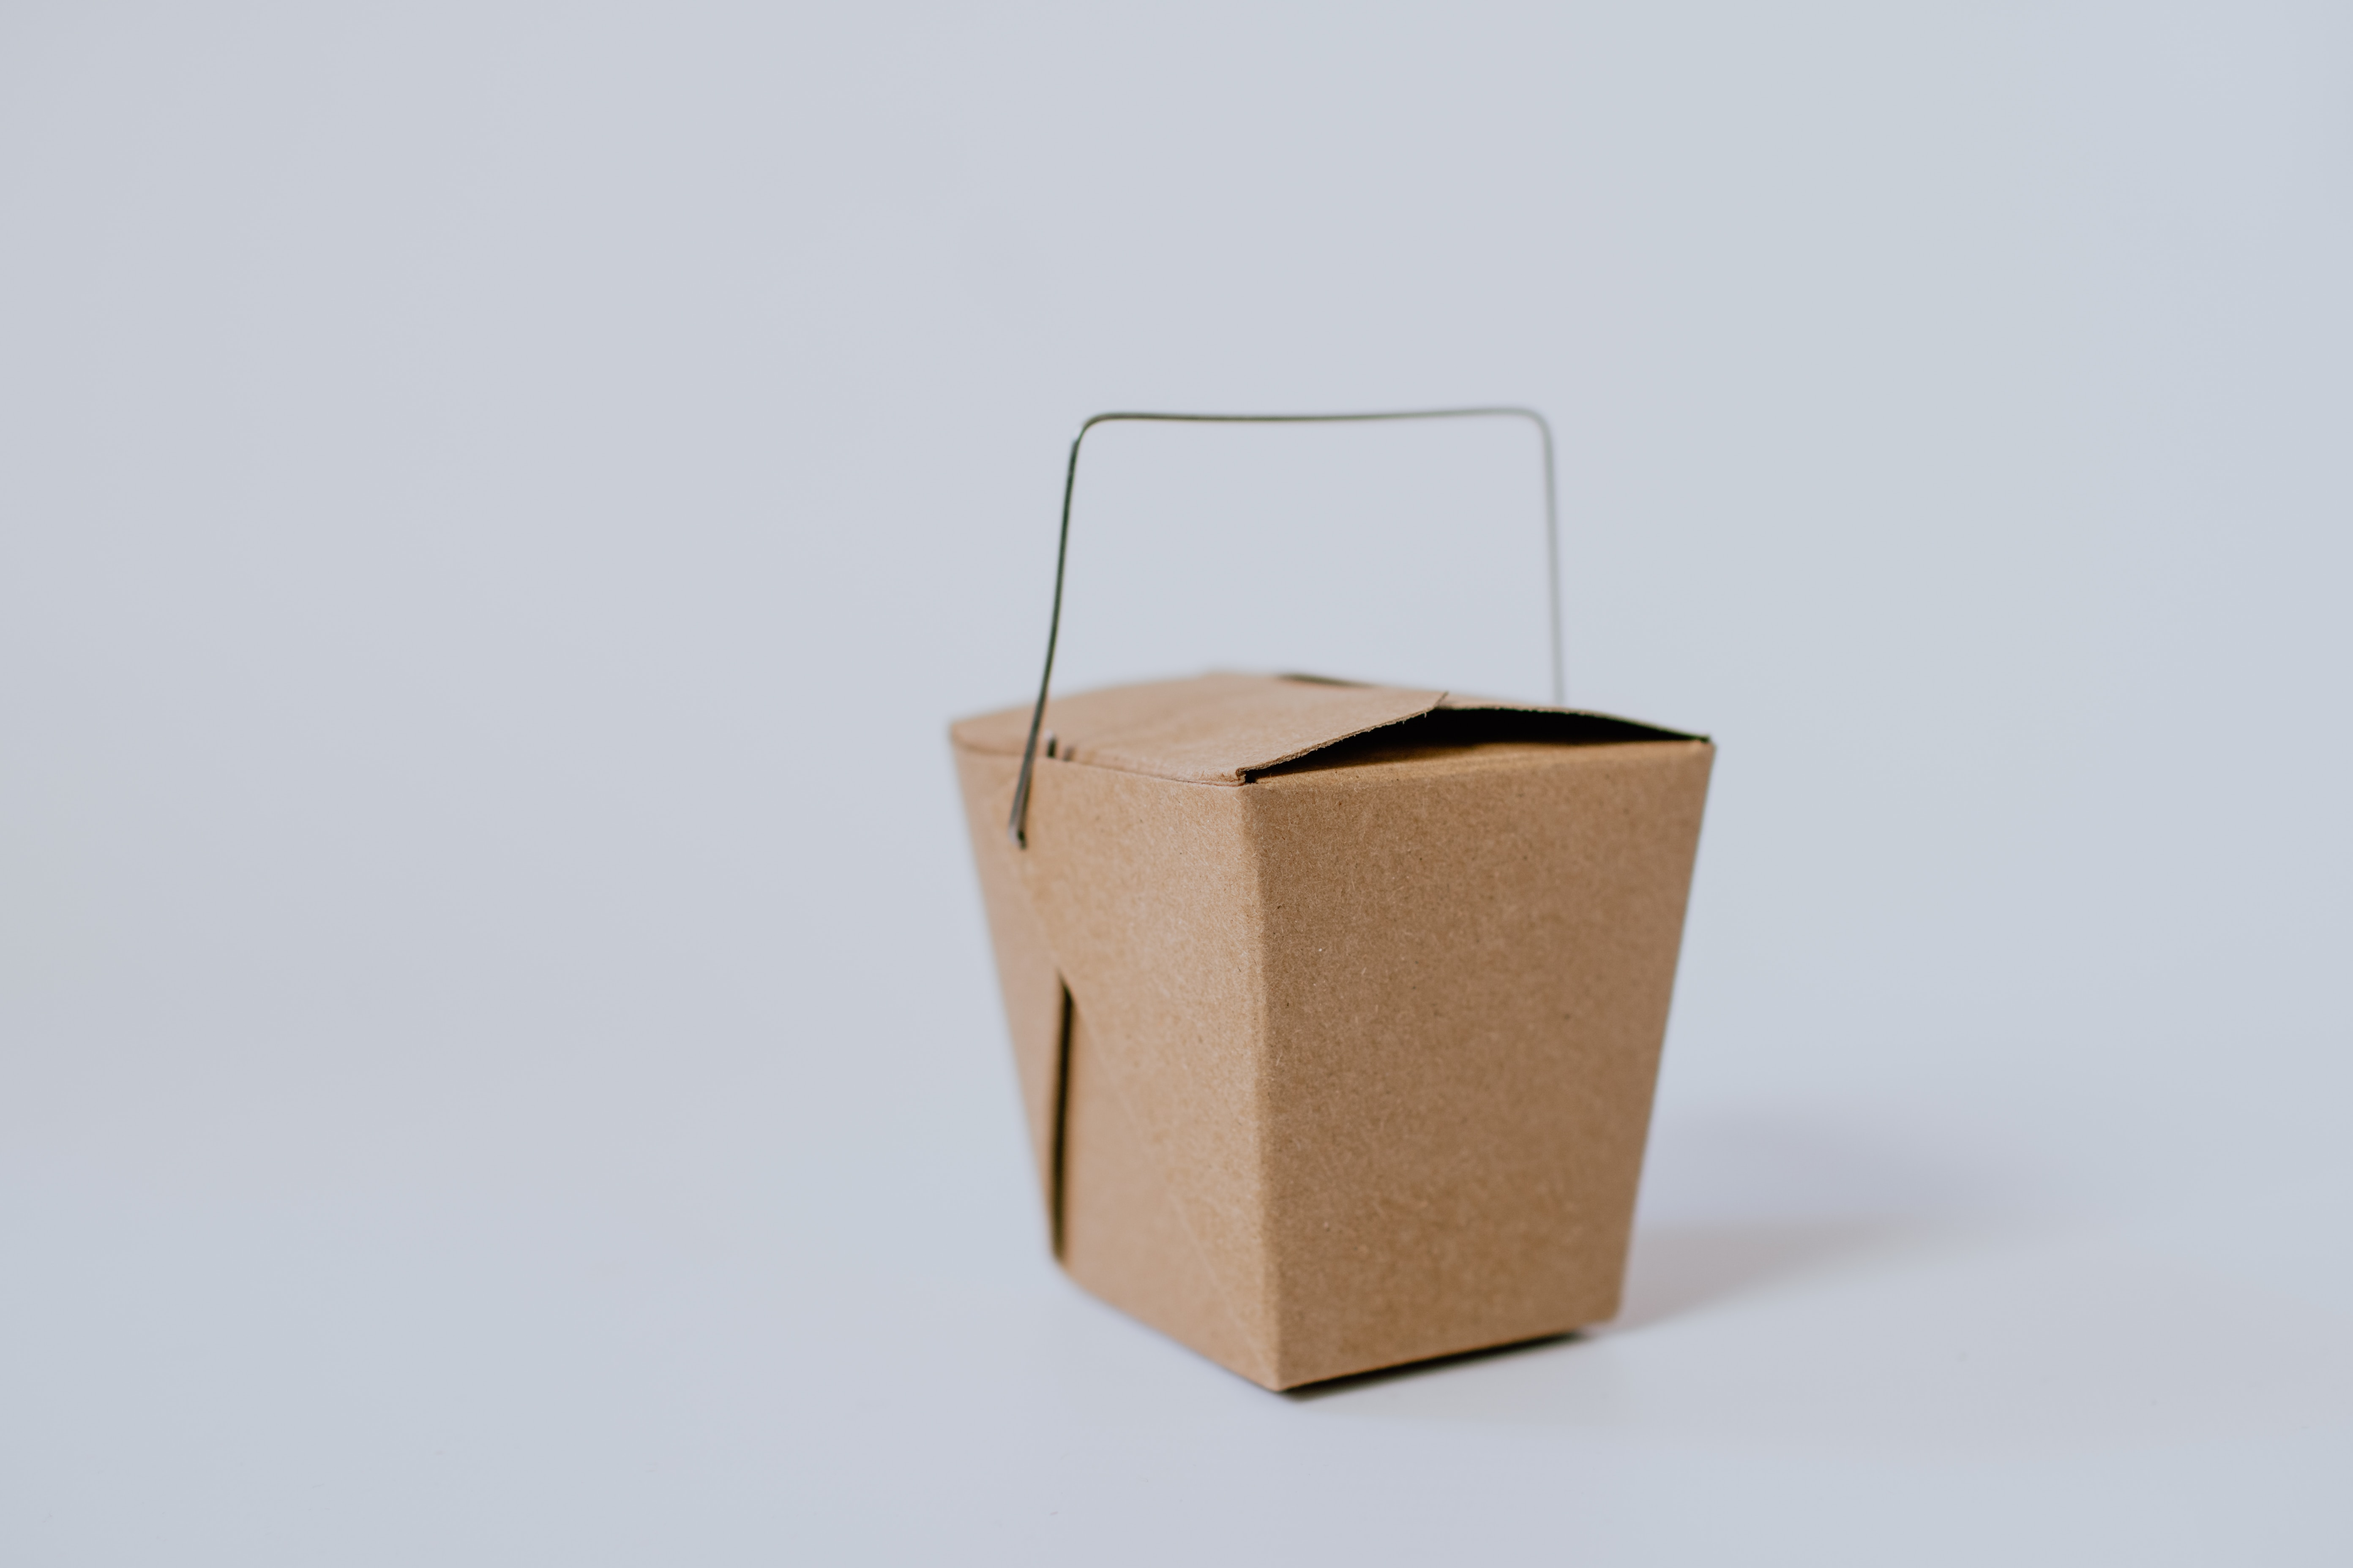
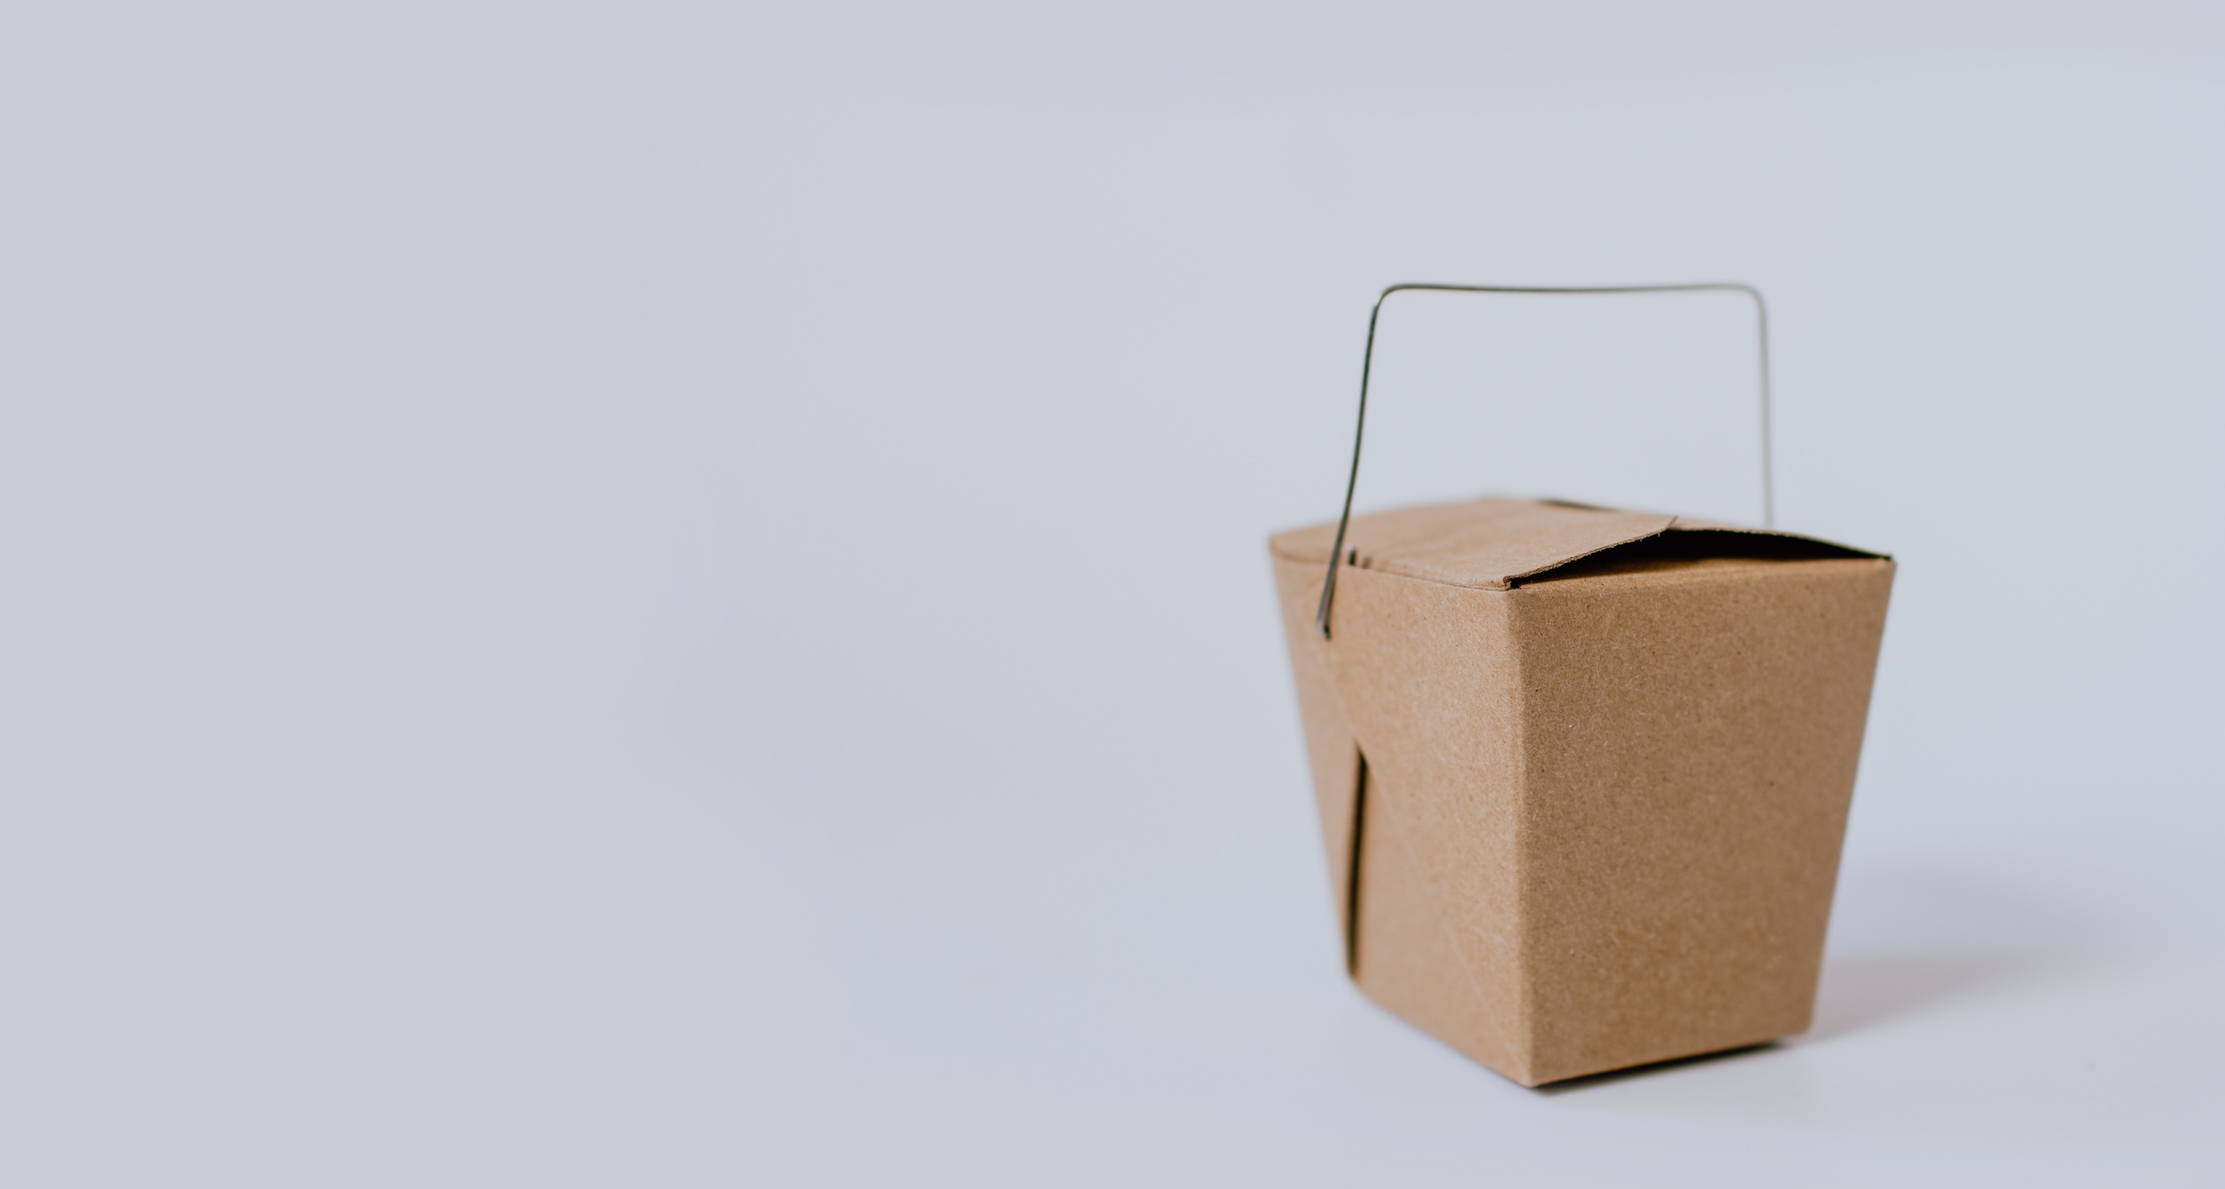
css update

Changed region(s): [[0.4049, 0.2164, 0.9033, 0.9275], [0.6541, 0.2783, 0.6853, 0.371], [0.7787, 0.2473, 0.8099, 0.3092]]

diff --git a/application/client/src/components/Header/Dropdown.jsx b/application/client/src/components/Header/Dropdown.jsx
@@ -3,30 +3,40 @@ import { AiOutlineUser } from 'react-icons/ai';
 import { Link } from 'react-router-dom';
 
 export default function Dropdown() {
-  const [isOpen, setIsOpen] = useState(false);
+	const [isOpen, setIsOpen] = useState(false);
 
-  const toggleDropdown = () => {
-    setIsOpen(!isOpen);
-  };
+	const toggleDropdown = () => {
+		setIsOpen(!isOpen);
+	};
 
-  return (
-    <div className="relative">
-      <button onClick={toggleDropdown}>
-        <AiOutlineUser />
-      </button>
-      {isOpen && (
-        <button onClick={toggleDropdown} className="fixed top-0 right-0 bottom-0 left-0 w-full h-full bg-black opacity-0 cursor-default"></button>
-      )}
-      {isOpen && (
-        <div className="absolute right-0 mt-2 py-2 w-48 bg-gray-100 rounded-lg shadow-xl">
-          <Link to='/CustomerProfile' href="#" className="block px-4 py-2 text-gray-800 hover:bg-orange-400 hover:text-white">
-            Profile
-          </Link>
-          <Link href="#" className="block px-4 py-2 text-gray-800 hover:bg-orange-400 hover:text-white">
-            Sign Out
-          </Link>
-        </div>
-      )}
-    </div>
-  );
+	return (
+		<div className='relative'>
+			<button onClick={toggleDropdown}>
+				<AiOutlineUser />
+			</button>
+			{isOpen && (
+				<button
+					onClick={toggleDropdown}
+					className='fixed top-0 right-0 bottom-0 left-0 w-full h-full bg-black opacity-0 cursor-default'
+				></button>
+			)}
+			{isOpen && (
+				<div className='absolute right-0 mt-2 py-2 w-48 bg-gray-100 rounded-lg shadow-xl'>
+					<Link
+						to='/CustomerProfile'
+						href='#'
+						className='block px-4 py-2 text-gray-800 hover:bg-orange-400 hover:text-white'
+					>
+						Profile
+					</Link>
+					<Link
+						href='#'
+						className='block px-4 py-2 text-gray-800 hover:bg-orange-400 hover:text-white'
+					>
+						Sign Out
+					</Link>
+				</div>
+			)}
+		</div>
+	);
 }

diff --git a/application/client/src/components/Header/Navbar.jsx b/application/client/src/components/Header/Navbar.jsx
@@ -20,14 +20,14 @@ export default function Navbar() {
 	const isCustomerHomePage = userLocation.pathname === '/customerhome';
 
 	return (
-
-		
-
 		<>
-
 			<div>
 				<div>
-					<img class= "h-8" src={require("../../images/profiles/Leslie_perfil.png")} alt="temp_logo" />
+					<img
+						class='h-8'
+						src={require('../../images/profiles/Leslie_perfil.png')}
+						alt='temp_logo'
+					/>
 				</div>
 			</div>
 			<nav>
@@ -40,15 +40,15 @@ export default function Navbar() {
 						  ))
 						: isLandingPage && (
 								<>
-								<div>
-									<li>
-										<Link to='/signin'>Sign In</Link>
-									</li>
+									<div>
+										<li>
+											<Link to='/signin'>Sign In</Link>
+										</li>
 									</div>
-									<div class="ml-5">
-									<li>
-										<Link to='/signup'>Sign Up</Link>
-									</li>
+									<div class='ml-5'>
+										<li>
+											<Link to='/signup'>Sign Up</Link>
+										</li>
 									</div>
 								</>
 						  )}

diff --git a/application/client/src/pages/SignUp/RestaurantSignUp.jsx b/application/client/src/pages/SignUp/RestaurantSignUp.jsx
@@ -45,8 +45,9 @@ export default function RestaurantSignUp() {
 				break;
 			case 'pwd':
 				isValid =
-					/^(?=.*[A-Za-z])(?=.*\d)(?=.*[@$!%*#?&])[A-Za-z\d@$!%*#?&]{8,20}$/.test(value) &&
-					checkpassword(value, inputValues.cpwd);
+					/^(?=.*[A-Za-z])(?=.*\d)(?=.*[@$!%*#?&])[A-Za-z\d@$!%*#?&]{8,20}$/.test(
+						value
+					) && checkpassword(value, inputValues.cpwd);
 				break;
 			case 'cpwd':
 				isValid = value === inputValues.pwd;
@@ -106,7 +107,7 @@ export default function RestaurantSignUp() {
 	};
 
 	return (
-		<div className='container max-w-xl m-auto'>
+		<div className='max-w-xl m-auto max-h-full'>
 			<form onSubmit={handleSubmit} className='px-16  bg-slate-200'>
 				<h1 className='text-3xl'>
 					Join Us as a <strong>Restaurant Owner</strong>

diff --git a/application/client/src/pages/SignUp/CustomerSignUp.jsx b/application/client/src/pages/SignUp/CustomerSignUp.jsx
@@ -40,8 +40,9 @@ export default function CustomerSignup() {
 				break;
 			case 'pwd':
 				isValid =
-					/^(?=.*[A-Za-z])(?=.*\d)(?=.*[@$!%*#?&])[A-Za-z\d@$!%*#?&]{8,20}$/.test(value) &&
-					checkpassword(value, inputValues.cpwd);
+					/^(?=.*[A-Za-z])(?=.*\d)(?=.*[@$!%*#?&])[A-Za-z\d@$!%*#?&]{8,20}$/.test(
+						value
+					) && checkpassword(value, inputValues.cpwd);
 				break;
 			case 'cpwd':
 				isValid = value === inputValues.pwd;
@@ -81,7 +82,7 @@ export default function CustomerSignup() {
 	};
 
 	return (
-		<div className='container max-w-xl m-auto'>
+		<div className='max-w-xl m-auto max-h-full'>
 			<form onSubmit={handleSubmit} className='px-16  bg-slate-200'>
 				<h1 className='text-3xl'>
 					Join Us as a <strong>Customer</strong>

diff --git a/application/client/src/pages/LandingPage.jsx b/application/client/src/pages/LandingPage.jsx
@@ -1,11 +1,10 @@
 import React from 'react';
-import landingpage from '../images/landingpage.jpg';
 
 export default function LandingPage() {
 	return (
-		<div className='container m-auto bg-landingpagebg bg-center'>
-			<section className='flex flex-1 items-center justify-center'>
-				<div className='flex flex-col items-center justify-between'>
+		<div className='min-h-full m-auto bg-landingpagebg bg-cover bg-no-repeat bg-right-bottom flex'>
+			<section className='flex flex-1 items-center justify-center '>
+				<div className='flex flex-col items-center justify-between pr-72'>
 					<h1 className='text-5xl'>Last Call</h1>
 					<p className='text-2xl mt-16'>Avoid food waste and Save money</p>
 				</div>

diff --git a/application/client/src/pages/SignUp/SignUpChoice.jsx b/application/client/src/pages/SignUp/SignUpChoice.jsx
@@ -7,7 +7,9 @@ export default function SignUpChoice() {
 			<h1 className='text-3xl font-semibold text-black py-8'>here is sign up choice page</h1>
 			<div className='flex justify-between text-white'>
 				<Link to={`/signup/customer`}>
-					<button className='bg-black p-3 px-6 rounded text-center'>to customerSignup</button>
+					<button className='bg-black p-3 px-6 rounded text-center'>
+						to customerSignup
+					</button>
 				</Link>
 
 				<Link to={`/signup/restaurant`}>

diff --git a/application/client/src/pages/Root.jsx b/application/client/src/pages/Root.jsx
@@ -8,7 +8,7 @@ export default function Root() {
 			<header className='flex justify-between'>
 				<Navbar />
 			</header>
-			<main className='bg-orange-600 w-full justify-items-center m-auto'>
+			<main className='h-full w-full m-auto overflow-y-auto'>
 				<Outlet />
 			</main>
 			<footer>Team 7</footer>

diff --git a/application/client/src/pages/SignIn.jsx b/application/client/src/pages/SignIn.jsx
@@ -27,7 +27,7 @@ export default function SignIn() {
 		}
 	};
 	return (
-		<div className='m-auto'>
+		<div className='max-w-xl m-auto max-h-full'>
 			<form onSubmit={handleSubmit} className='px-16 bg-slate-200'>
 				<h1 className='text-3xl'>Sign In</h1>
 				{inputsForSignIn.map((input) => (

diff --git a/application/client/src/pages/Home.jsx b/application/client/src/pages/Home.jsx
@@ -27,7 +27,7 @@ export default function Home() {
 	};
 
 	return (
-		<div className=''>
+		<div>
 			This is Team 7 Home section.
 			<div>
 				<Search onSearchSubmit={handleSearchSubmit} searchValue={searchValue} />
